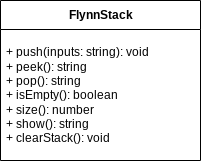
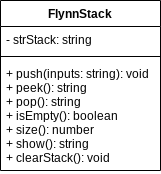
flowcharts

Changed region(s): [[0.0, 0.0, 1.0, 1.0]]

diff --git a/Unit2-03/FlynnStack.java b/Unit2-03/FlynnStack.java
@@ -1,0 +1,70 @@
+/**
+* The FlynnStack class.
+*
+* @author Flynn Rundquist
+* @version 1.0
+* @since 2024-03-22
+*/
+
+final class FlynnStack {
+
+    /**
+     * The main() method.
+     *
+     * @param args The command line arguments
+     */
+    private String[] stack;
+
+    /**
+     * Creates an empty stack.
+     */
+    FlynnStack() {
+        stack = new String[0];
+    }
+
+    /**
+     * Pushes an item onto the stack.
+     *
+     * @param item The item to push
+     */
+    public void push(String item) {
+        String[] final newStack = new String[stack.length + 1];
+        for (int counter = 0; counter < stack.length; counter++) {
+            newStack[counter] = stack[counter];
+        }
+        newStack[newStack.length - 1] = item;
+        stack = newStack;
+    }
+
+    /**
+     * Pops an item off the stack.
+     *
+     * @return The item
+     */
+    public String pop() {
+        String final top_item = stack[stack.length - 1];
+        String[] final newStack = new String[stack.length - 1];
+        for (int counter = 0; counter < newStack.length; counter++) {
+            newStack[counter] = stack[counter];
+        }
+        stack = newStack;
+        return top_item;
+    }
+
+    /**
+     * Shows the stack.
+     *
+     * @return The stack
+     */
+    public String show() {
+        String values = "";
+        for (int counter = 0; counter < stack.length; counter++) {
+            values += stack[counter];
+            if (counter < stack.length - 1) {
+                values += ", ";
+            }
+        }
+        values += "";
+        return values;
+    }
+}

diff --git a/Unit2-03/Main.java b/Unit2-03/Main.java
@@ -1,0 +1,47 @@
+/**
+ * This is the standard Main() class starting point.
+ *
+ * @author Flynn Rundquist
+ * @version 1.0
+ * @since 2024-03-22
+ */
+
+final class Main {
+    /**
+     * The main() method.
+     *
+     * @param args The command line arguments
+     */
+    public static void main(String[] args) {
+        FlynnStack final fruits = new FlynnStack();
+        fruits.push("apple");
+        fruits.push("banana");
+        fruits.push("cherry");
+        System.out.println("Fruits: " + fruits.show());
+        String removed = fruits.pop();
+        System.out.println("Popped: " + removed);
+        System.out.println("Fruits: " + fruits.show());
+        System.out.println("\n");
+
+        FlynnStack final colours = new FlynnStack();
+        colours.push("red");
+        colours.push("blue");
+        colours.push("purple");
+        System.out.println("Colours: " + colours.show());
+        removed1 = colours.pop();
+        System.out.println("Popped: " + removed1);
+        System.out.println("Colours: " + colours.show());
+        System.out.println("\n");
+
+        FlynnStack final animals = new FlynnStack();
+        animals.push("dog");
+        animals.push("bird");
+        animals.push("cat");
+        System.out.println("Animals: " + animals.show());
+        removed2 = animals.pop();
+        System.out.println("Popped: " + removed2);
+        System.out.println("Animals: " + animals.show());
+
+        System.out.println("\nDone.");
+    }
+}
